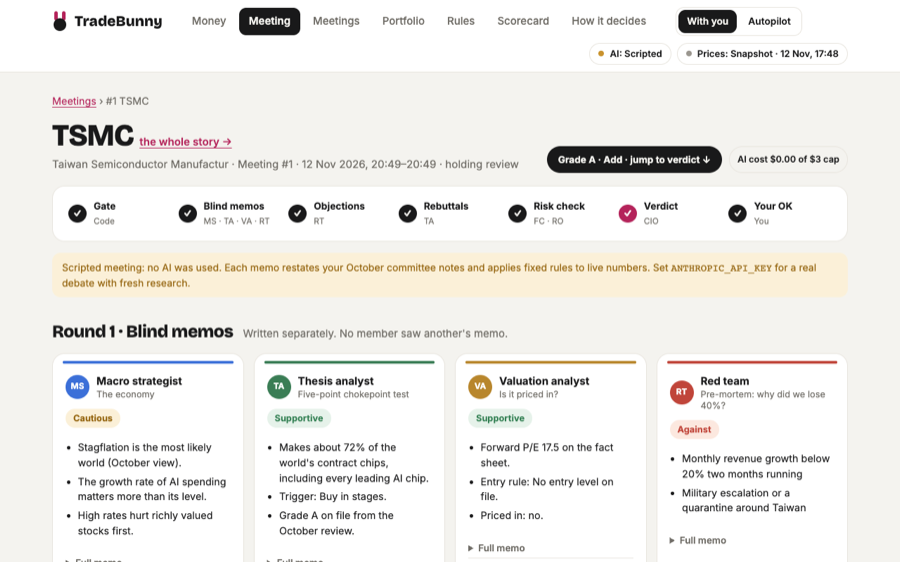
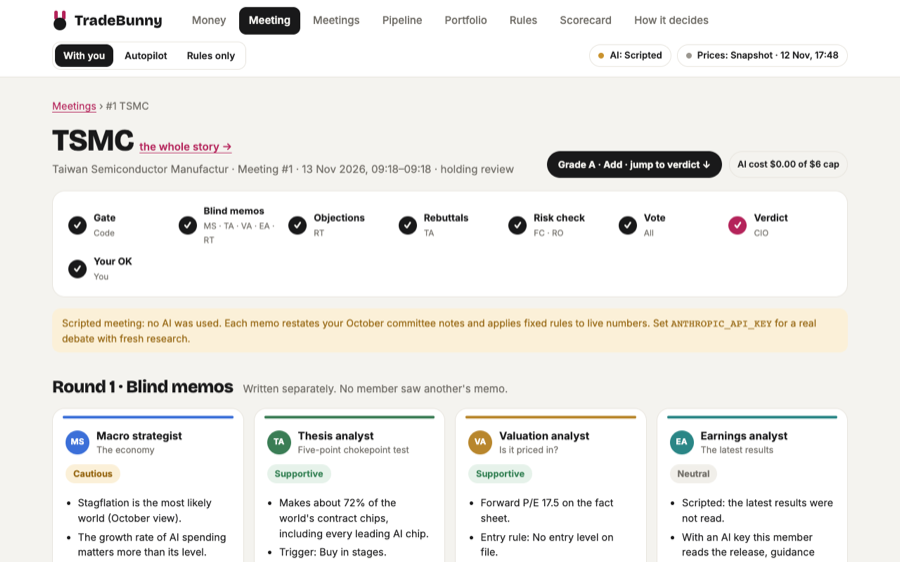
TradeBunny row: the staged council, a no-AI comparison book, 1,428 tests

diff --git a/README.md b/README.md
@@ -20,11 +20,11 @@ Open-source Qwen models on Apple MLX, voice in English, Spanish and French, memo
 </td>
 </tr>
 <tr>
-<td><a href="https://github.com/lpesseygirod/tradebunny/tree/investment-council"><img src="assets/tradebunny.png" alt="TradeBunny: one council meeting, from blind memos to the verdict"></a></td>
+<td><a href="https://github.com/lpesseygirod/tradebunny/tree/investment-council"><img src="assets/tradebunny.png" alt="TradeBunny: one council meeting, with five blind memos, the debate and the verdict"></a></td>
 <td>
 <b><a href="https://github.com/lpesseygirod/tradebunny/tree/investment-council">TradeBunny</a></b>: an AI investment committee with a code-enforced risk engine<br><br>
-AI analysts research a stock in blind rounds, a red team attacks the thesis and a CIO grades it. A risk engine in plain code is the only veto, and nothing trades without my approval. Before this, I tested a crypto grid strategy on 29 pairs and retired it by a rule written in advance.<br><br>
-<sub>Python · Claude API · Pydantic · Flask · SQLite · 1,368 tests · paper trading</sub>
+A scout finds ideas, AI analysts debate them in blind rounds, a red team attacks the thesis and a CIO grades it. Code does the maths and has the only veto, nothing trades without my approval, and a no-AI book tests whether the debate pays. Before this, I tested a crypto grid strategy on 29 pairs and retired it by a rule written in advance.<br><br>
+<sub>Python · Claude API · Pydantic · Flask · SQLite · 1,428 tests · paper trading</sub>
 </td>
 </tr>
 <tr>
